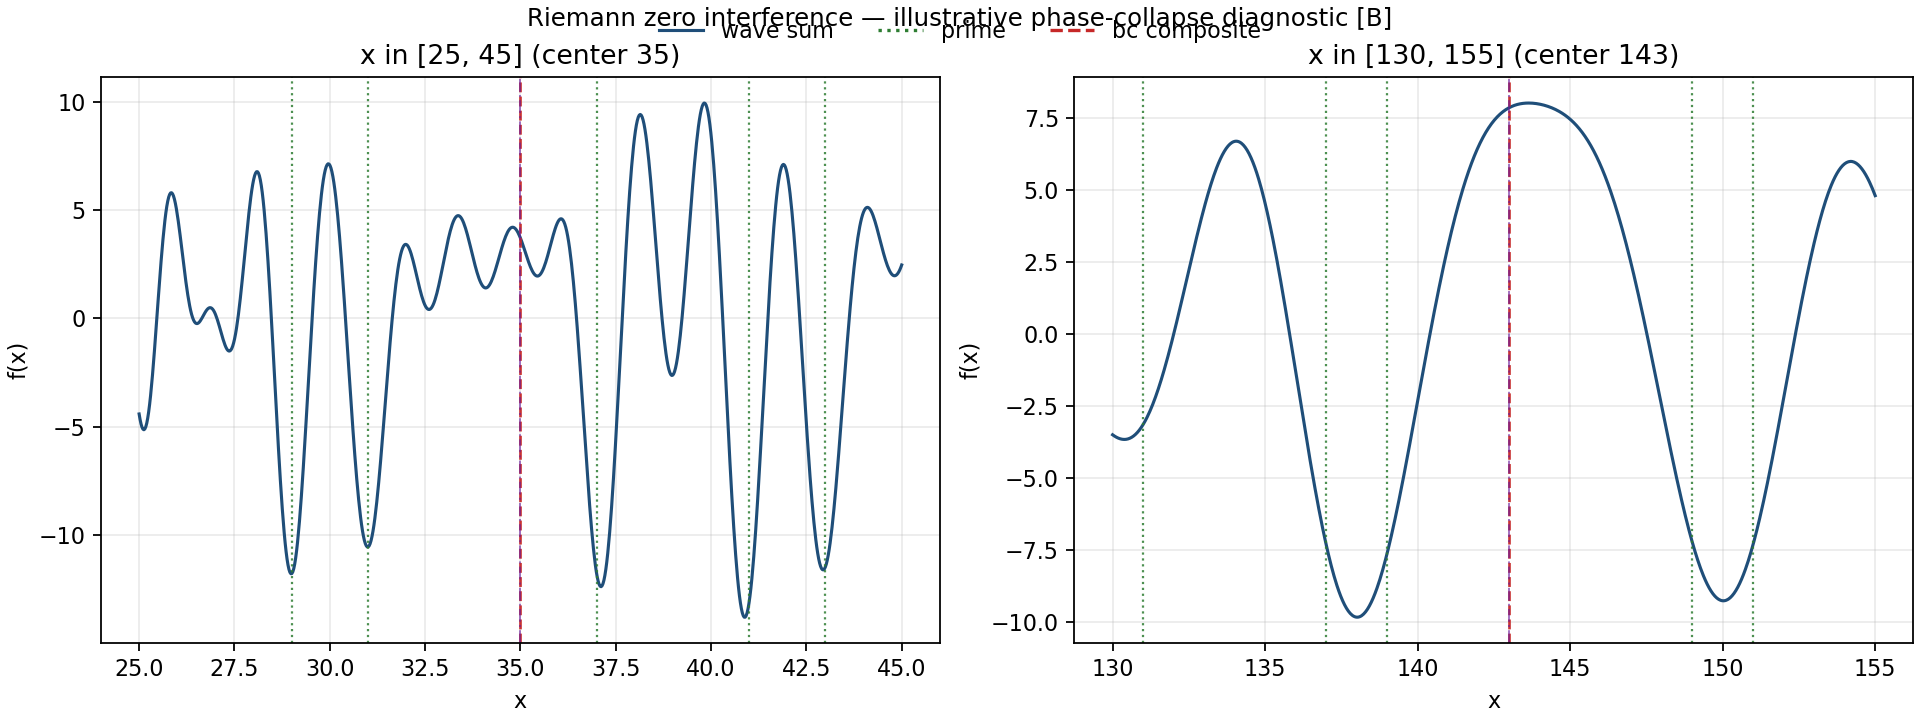
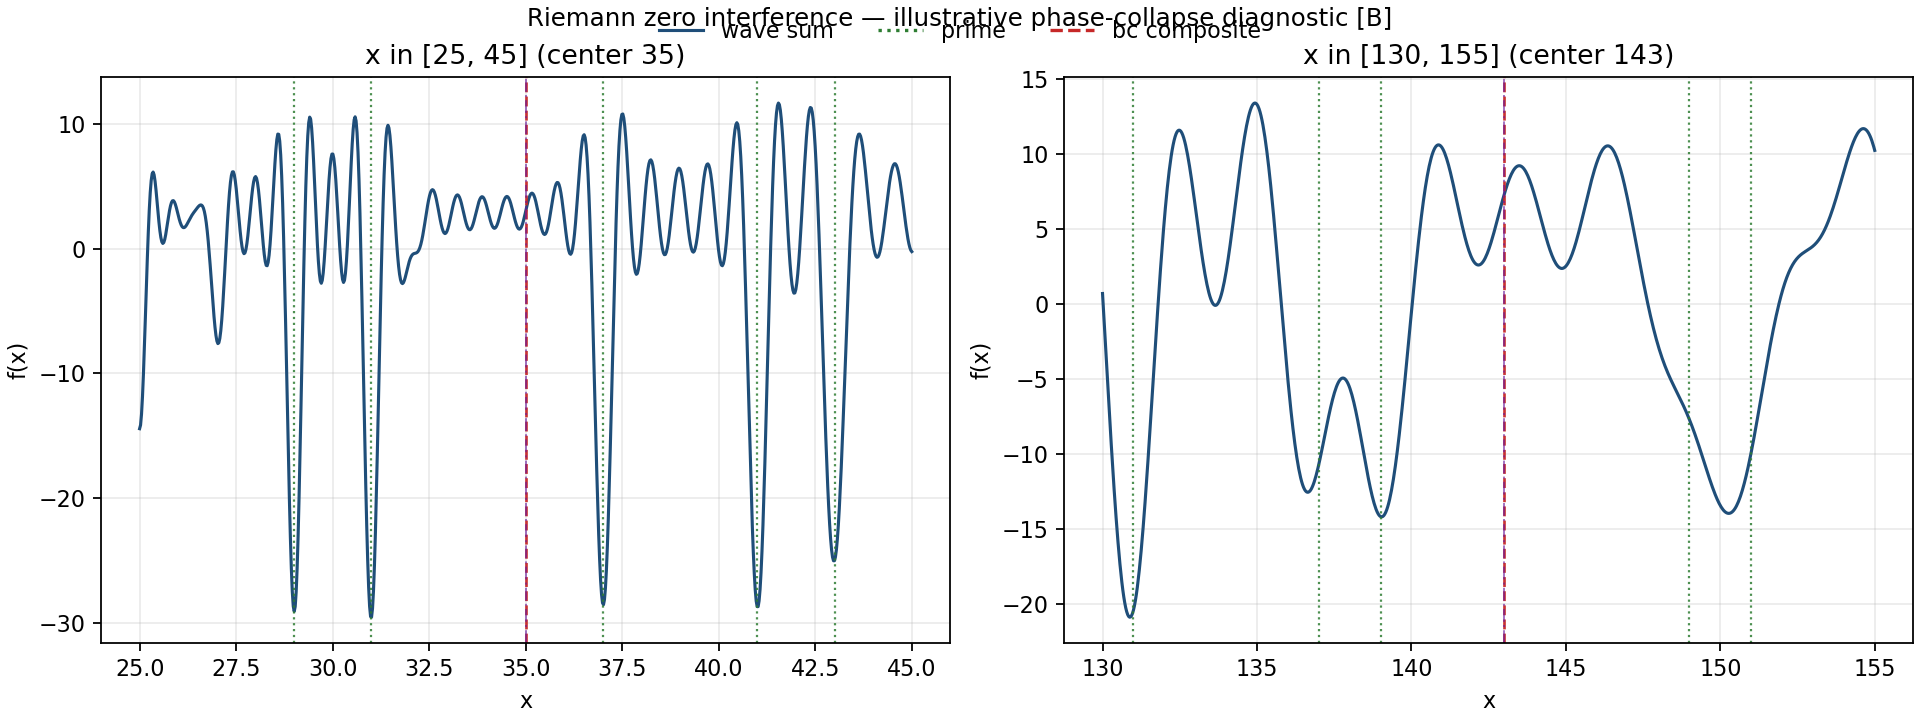
Document Riemann zero interference analogy and [B] diagnostic
- record constructive/destructive interference hypothesis at bc-axis nodes
- add Python interference signal diagnostic over zeta zero spectrum
- governance [C]: analogy only, not EABC proof or physics identity
- link to energiedoku symmetry-breaking and residual multiscale program

diff --git a/docs/open_research_questions.md b/docs/open_research_questions.md
@@ -41,6 +41,83 @@ Es enthält bewusst keine Behauptungen über bereits gesicherte Resultate.
 - Lässt sich ein Bell-typisches Testfunktional als diskrete Operatorform definieren?
 - Welche Transfer-/Labelkanaele bewahren rekonstruktive Information?
 
+## Projekt „Atome“ (E-092 / ORQ-092)
+
+- Korrelieren EABC-Invarianten \(I_{\mathrm{EABC}}(A,Z)\) mit Kernbindungs-Residuen \(R(A,Z)=B_{\mathrm{exp}}-B_{\mathrm{smooth}}\) über Nullmodelle hinaus?
+- Liefert die Residualschicht (nicht \(B_{\mathrm{exp}}\)) belastbare Mehrskalen-Signatur (PCA, Fourier/Wavelet entlang \(\log A\))?
+- Welche präregistrierte Weizsäcker-Parameterwahl und AME-Schnittmenge sind für einen `[B]`-Upgrade reproduzierbar?
+
+**Prüfmodus:**
+
+```bash
+PYTHONPATH=src python examples/run_atome_residual_export.py
+pytest tests/test_nuclear_binding_residual.py -q
+```
+
+**Dossier:** [`atome_hypothese.md`](atome_hypothese.md) · Vollprotokoll [`theory/nuclear_binding_multiscale_analogy.md`](theory/nuclear_binding_multiscale_analogy.md) §5
+
+## Projekt „Black Hole“ (E-093 / ORQ-093)
+
+- Korrelieren Legendre-verbotene Massenschalen (bei präregistriertem \(\kappa\)) mit \(\chi_p\)-Stratifizierung (1G vs. 2G) über Fisher-Test und Permutations-Nullmodelle hinaus?
+- Liefert der \(\kappa\)-Sweep ein resonantes Minimum **nur** auf echtem GWTC-5-Katalog — nicht auf Mock-Daten?
+- Welche Toleranz \(\tau\) und Primnorm-Obergrenze sind für ORQ-093 präregistriert?
+
+**Prüfmodus:**
+
+```bash
+PYTHONPATH=src python examples/run_black_hole_gwtc_export.py
+pytest tests/test_black_hole_legendre_gwtc.py tests/test_black_hole_governance_docs.py -q
+```
+
+**Dossier:** [`black_hole_hypothese.md`](black_hole_hypothese.md) · Vollprotokoll [`theory/black_hole_legendre_gwtc_bridge.md`](theory/black_hole_legendre_gwtc_bridge.md) · Claim-Register [`black_hole/claim_register.md`](black_hole/claim_register.md)
+
+## Projekt „Phaseninvarianz“ (E-094 / ORQ-094)
+
+- Bleibt \(E_a = a_x^2 + a_y^2\) unter Pauli Z (\(a_x \to -a_x\)) und X (\(a_x \leftrightarrow a_y\)) algebraisch exakt invariant?
+- Restrukturieren partielle Tensor-X-Fehler (\(b_x \leftrightarrow c_x\)) die quartischen \(E_{bc}\)-Kreuzterme signifikant über symmetrische Spezialfälle hinaus?
+- Lässt sich die QEC-Schutz-Lesesprache für die 6k+1-Primachse \(a\) über Fehler-Injektions-Nullmodelle empirisch trennen?
+
+**Prüfmodus:**
+
+```bash
+PYTHONPATH=src python examples/run_phaseninvarianz_export.py
+pytest tests/test_phaseninvarianz_pauli_energy.py tests/test_phaseninvarianz_governance_docs.py -q
+```
+
+**Dossier:** [`phaseninvarianz_hypothese.md`](phaseninvarianz_hypothese.md) · Vollprotokoll [`theory/phaseninvarianz_pauli_energy_bridge.md`](theory/phaseninvarianz_pauli_energy_bridge.md) · Claim-Register [`phaseninvarianz/claim_register.md`](phaseninvarianz/claim_register.md)
+
+### ORQ-094: Pauli Phase Invariance on EABC Energy
+
+- **Kontext:** Energetische Quadratsummen-Substitution (BH-C-11) liefert \(E_a\) (quadratisch) und \(E_{bc}\) (quartisch); Pauli-Operatoren auf Amplituden testen Schutz vs. Verwundbarkeit; QEC-Grammatik aus E-044/BH-C-09 als Lesesprache.
+- **Kernfrage:** Ist die \(a\)-Achse (6k+1-Primachsen) gegen Phasen-/Bitflip-Fehler algebraisch geschützt, während der \(bc\)-Bivektor volle Fehlerkorrektur erfordert?
+- **Status:** `[C]` — `[A/B]`-Invarianzfakten reproduzierbar; `[B]`-Upgrade über präregistriertes Fehler-Injektionsprotokoll.
+- **Abhängigkeiten:** E-093 (BH-C-11 Energetik), E-044 (`qec_bridge.py`), BH-C-09 (symplektische Stabilisator-Brücke).
+- **Dossier:** [`phaseninvarianz_hypothese.md`](phaseninvarianz_hypothese.md) · [`theory/phaseninvarianz_pauli_energy_bridge.md`](theory/phaseninvarianz_pauli_energy_bridge.md)
+
+### ORQ-093: Legendre-GWTC Mass-Gap Correlation
+
+- **Kontext:** Drei-Quadrate-Obstruktion \(4^a(8b+7)\) induziert verbotene EABC-Normschalen; GWTC-Massen erfordern Quantisierung \(\kappa: M_\odot \to \mathbb{Z}\); \(\chi_p\) stratifiziert 1G/2G-Kandidaten.
+- **Kernfrage:** Meiden 1G-Systeme Legendre-Lücken signifikant häufiger als 2G-Merger-Kandidaten?
+- **Status:** `[C]` — `[B]`-Upgrade über `black_hole_legendre_gwtc.py` mit echtem GWTC, präregistriertem \(\kappa\) und Nullmodellen.
+- **Präregistrierung:** **LOCK** (07.07.2026) — [`black_hole/preregistration_gwtc5.md`](black_hole/preregistration_gwtc5.md) (BH-GOV-01): Phase 1 GWTC-3-Grid (92 Tests, Bonferroni) → \((\kappa^*, \tau^*)\); Phase 2 GWTC-4/5 blind.
+- **Abhängigkeiten:** E-076, `GodelKerr.lean`; komplementär zu E-092 (Residual-Test-Methodik).
+- **Dossier:** [`black_hole_hypothese.md`](black_hole_hypothese.md) · [`theory/black_hole_legendre_gwtc_bridge.md`](theory/black_hole_legendre_gwtc_bridge.md) · [`black_hole/preregistration_gwtc5.md`](black_hole/preregistration_gwtc5.md)
+
+### ORQ-095: Riemann Zero Interference at bc-Axis Nodes
+
+- **Kontext:** Explizite-Formel-Oszillationen \(\cos(\gamma\ln x)\); EABC bc-Achse (mod 6); Geschwister zu E-092 (Residual-Oszillation), E-094 (Cross-Talk \(\Delta E\)), E-034/E-035 (mean-cos-Abgrenzung).
+- **Kernfrage:** Zeigt \(S(x;\Gamma)=\sum_{\gamma\in\Gamma}\cos(\gamma\ln x)\) an präregistrierten Knoten signifikante Prim/Komposit-Trennung (insb. bc-Stratifizierung) über Zufalls-\(\Gamma\) hinaus?
+- **Status:** `[C]` — `[B]`-Diagnostik-Stub; Nullmodell-Pflicht vor Discovery-Claim.
+- **Abhängigkeiten:** E-034, E-035, E-092, E-094 (PI-C-03).
+- **Dossier:** [`theory/riemann_zero_interference_analogy.md`](theory/riemann_zero_interference_analogy.md)
+
+**Prüfmodus:**
+
+```bash
+PYTHONPATH=src python examples/run_riemann_interference_export.py
+pytest tests/test_riemann_interference_diagnostics.py -q
+```
+
 ## Projekt „Die drei Musketiere“ (E-026)
 
 - Existiert in jedem Bremensaal ein Nachbar-Dreier der drei uebrigen EABC-Familien?
@@ -61,9 +138,9 @@ Es enthält bewusst keine Behauptungen über bereits gesicherte Resultate.
 
 - **Kontext:** Kernbindungs-Residuen \(R(A,Z)=B_{\mathrm{exp}}-B_{\mathrm{smooth}}\) (Weizsäcker-Hülle) tragen Schalen-, Paarungs- und Kollektivstruktur; EABC-Invarianten \(I_{\mathrm{EABC}}\) sind arithmetisch definiert — methodische Parallele zu glatt-plus-Fehler-Zerlegungen (\(\pi(x)=\mathrm{Li}(x)+E(x)\)).
 - **Kernfrage:** Erklärt \(I_{\mathrm{EABC}}\) einen Teil von \(R(A,Z)\) über Permutations-/Shuffle-Nullmodelle hinaus — nicht die volle Bindungskurve?
-- **Status:** `[C]` — `[B]`-Upgrade über präregistriertes Protokoll (Pearson, Spearman, MI, PCA, Fourier/Wavelet; Nullmodelle Pflicht).
+- **Status:** `[C]` — `[B]`-Upgrade über `nuclear_binding_residual.py` und präregistriertes Protokoll (Pearson, Spearman, MI, PCA, Fourier/Wavelet; Nullmodelle Pflicht).
 - **Abhängigkeiten:** E-076 (Bulk/Shell-Lesesprache), E-092; komplementär zu Weierstrass-Multiscale-Export.
-- **Dossier:** [`theory/nuclear_binding_multiscale_analogy.md`](theory/nuclear_binding_multiscale_analogy.md) §5
+- **Dossier:** [`atome_hypothese.md`](atome_hypothese.md) · [`theory/nuclear_binding_multiscale_analogy.md`](theory/nuclear_binding_multiscale_analogy.md) §5
 
 ### ORQ-089: Onsager Quantization Bridge
 
@@ -103,6 +180,9 @@ Vollstaendige Statements, Governance-Tabelle und Durchbruchspfad: [`open_mathema
 | 10 | ORQ-087 | Weyl-Commutator $\Delta_{\mathrm{LR}}$ | — | `[C]` → `[B]`-Ziel |
 | 11 | ORQ-089 | Onsager Quantization Bridge | E-089 | `[C]` |
 | 12 | ORQ-092 | Nuclear residual \(I_{\mathrm{EABC}}\) vs. \(R(A,Z)\) | E-092 | `[C]` → `[B]`-Ziel |
+| 13 | ORQ-093 | Legendre-GWTC mass-gap vs. \(\chi_p\) | E-093 | `[C]` → `[B]`-Ziel |
+| 14 | ORQ-094 | Pauli phase invariance on EABC energy | E-094 | `[C]` → `[B]`-Ziel |
+| 15 | ORQ-095 | Riemann zero interference at bc-axis nodes | E-095 | `[C]` → `[B]`-Ziel |
 
 **Shell-Separationsdiagnostik (E-077–E-079):** Mess-Schicht `[C]` — [`reports/shell_separation_diagnostics_protocol.md`](reports/shell_separation_diagnostics_protocol.md) · CSV via `scripts/shell_separation_diagnostics.py`
 

diff --git a/EABC_MASTER_INDEX.md b/EABC_MASTER_INDEX.md
@@ -75,3 +75,30 @@
   - **Stub `[B]`:** `src/kepler_hurwitz/onsager_vortex_diagnostics.py` (Gap-Rotor-Zirkulation, Holonomie, Defektkern)
   - **Claim-Grenze:** Ergänzt E-076 — keine physikalische Identifikation, keine Deduktion aus Dumas-Empirie
   - **Register:** E-089 (ORQ-089)
+
+- **Projekt „Black Hole“** — Legendre-GWTC-Massenlücken **[C/B]**
+  - **[A/B] Algebra:** `scripts/black_hole/legendre_mass_gaps.sage`, `black_hole_legendre_gwtc.py`
+  - **[C] Brücke:** \(\kappa: M_\odot \to \mathbb{Z}\), \(\chi_p\)-Stratifizierung 1G/2G, `eabc_merger.sage`, `five_qubit_bridge.sage`, `monopole_gap_test.sage`
+  - **[C] Riemann-Achsen-Monopol:** \(\delta=\psi_a-\psi_{bc}\) an \(\gamma_n\); `eabc_monopole_axis_resonance.py`, `eabc_six_state_prime_axes.py` · Dossier `docs/theory/eabc_riemann_axis_monopole.md` (BH-C-08)
+  - **[C] L-Gap-Symplektik-Brücke:** \(\Delta\gamma\) → 15 `[[5,1,3]]`-Stabilisatoren GF\((2)^4\setminus\{0\}\); `eabc_symplectic_stabilizer_bridge.py` · Dossier `docs/theory/eabc_symplectic_l_gap_bridge.md` (BH-C-09)
+  - **[C] Energetische Quadratsumme:** \(a = a_x^2 + a_y^2\) als Energiedichte-Metrik; `eabc_energy_square_sum.py` · Dossier `docs/theory/eabc_energy_square_sum_substitution.md` (BH-C-11)
+  - **[B] Stub:** Fisher-Test + Mock-GWTC-Export — `examples/run_black_hole_gwtc_export.py`
+  - **Dossier:** `docs/black_hole_hypothese.md`, `docs/theory/black_hole_legendre_gwtc_bridge.md`, `docs/black_hole/claim_register.md`
+  - **Lean `[C]`:** `KeplerHurwitz/BlackHoleInterface.lean`
+  - **Register:** E-093 (ORQ-093)
+  - **Geschwister `[C]`:** mod-6-Sechs-Zustands-Primachsen — `docs/theory/eabc_six_state_prime_axes.md`, `eabc_six_state_prime_axes.py`, `eabc_prime_six_state.sage` (kein neues E-ID; BH-C-07)
+
+- **Projekt „Phaseninvarianz“** — Pauli-Energie-Schutz/Verwundbarkeit **[C/B]**
+  - **[A/B] Algebra:** \(E_a\) invariant unter Pauli Z/X; \(E_{bc}\) verwundbar unter Tensor-X — `phaseninvarianz_pauli_energy.py`, `pauli_energy_invariance.sage`
+  - **[C] Brücke:** 6k+1-Primachse \(a\) QEC-geschützt; \(bc\)-Bivektor benötigt volle `[[5,1,3]]`-Grammatik (E-044, BH-C-09)
+  - **[B] Stub:** `pauli_invariance_report` + Export — `examples/run_phaseninvarianz_export.py`
+  - **Dossier:** `docs/phaseninvarianz_hypothese.md`, `docs/theory/phaseninvarianz_pauli_energy_bridge.md`, `docs/phaseninvarianz/claim_register.md`
+  - **Lean `[C]`:** `KeplerHurwitz/PhaseninvarianzInterface.lean`
+  - **Register:** E-094 (ORQ-094)
+
+- **Projekt „Riemann-Interferenz“** — ln(x)-Knoten-Interferenz **[C/B]**
+  - **[B] Stub:** \(S(x;\Gamma)=\sum\cos(\gamma\ln x)\) über erste 50 \(\gamma_n\) — `riemann_interference_diagnostics.py`
+  - **[C] Brücke:** konstruktiv/destruktiv an Prim/Komposit bc-Knoten; Cross-Talk \(\Delta E\) (PI-C-03); Residual-Oszillation (E-092)
+  - **Dossier:** `docs/theory/riemann_zero_interference_analogy.md`
+  - **Register:** E-095 (ORQ-095)
+  - **Abgrenzung:** E-034 (refuted mean \(\Delta M\)), E-035 (open mean \(x_0\)) — andere Normalisierung

diff --git a/EVIDENCE_REGISTER.md b/EVIDENCE_REGISTER.md
@@ -110,7 +110,7 @@ Es dient als Referenzschicht fuer Doku, Reviews und spaetere Publikationen.
 | `E-092` | Kernbindung Mehrskalen-Analogie (Weizsäcker-Hülle + Residual \(R(A,Z)\); \(I_{\mathrm{EABC}}\)-Testprotokoll) | `[C]` | `-` | `docs/theory/nuclear_binding_multiscale_analogy.md`, `src/kepler_hurwitz/nuclear_binding_residual.py`, `docs/atome_hypothese.md` | `E-076` | ORQ-092 | Formal \(R(A,Z)=B_{\mathrm{exp}}-B_{\mathrm{smooth}}\); 95–99 % vs. 1 % Informations-Split; \(\pi(x)=\mathrm{Li}(x)+E(x)\)-Analogie; EABC über Residuen mit Nullmodell-Pflicht | `[B]`-Diagnostik-Stub; empirische Verifikation offen | dokumentiert | `experimental` | `2026-07-06` |
 | `E-093` | Black Hole Legendre-GWTC-Brücke (\(\kappa\)-Quantisierung, \(\chi_p\)-Stratifizierung, Fisher-Test) | `[C]` | `-` | `docs/theory/black_hole_legendre_gwtc_bridge.md`, `docs/black_hole_hypothese.md`, `docs/black_hole/claim_register.md`, `src/kepler_hurwitz/black_hole_legendre_gwtc.py`, `KeplerHurwitz/BlackHoleInterface.lean`, `scripts/black_hole/*.sage`, `docs/theory/riemann_zero_interference_analogy.md`, `src/kepler_hurwitz/riemann_interference_diagnostics.py`, `docs/exports/riemann_interference_phase_collapse.png` | `E-076`, `GodelKerr` | ORQ-093 | Legendre-Lücken `[A/B]`; \(\kappa: M_\odot\to\mathbb{Z}\) und 1G/2G über \(\chi_p\) `[C]`; Fisher-Test auf Mock-GWTC; Riemann-Interferenz-Plot \(f(x)=\sum\cos(\gamma_n\ln x)\) um 35/143 `[B]` illustrativ | `[B]`-Stub; echtes GWTC + Präregistrierung für Upgrade; Interferenz-Plot kein Symmetriebruch-Beweis | dokumentiert | `experimental` | `2026-07-07` |
 | `E-094` | Phaseninvarianz Pauli-Energie-Brücke (Z/X-Invarianz auf \(E_a\), Tensor-X-Verwundbarkeit auf \(E_{bc}\)) | `[C]` | `-` | `docs/theory/phaseninvarianz_pauli_energy_bridge.md`, `docs/phaseninvarianz_hypothese.md`, `docs/phaseninvarianz/claim_register.md`, `src/kepler_hurwitz/phaseninvarianz_pauli_energy.py`, `KeplerHurwitz/PhaseninvarianzInterface.lean`, `scripts/phaseninvarianz/*.sage` | `E-093`, `E-044` | ORQ-094 | \(E_a\) Pauli-invariant `[A/B]`; \(E_{bc}\) tensor-verwundbar `[A/B]`; QEC-Schutz-Lesesprache `[C]` | `[B]`-Upgrade über Fehler-Injektionsprotokoll | dokumentiert | `experimental` | `2026-07-07` |
-| `E-095` | Riemann-Nullstellen-Interferenz an ln(x)-Knoten (\(S(x;\Gamma)=\sum\cos(\gamma\ln x)\); Prim vs. Komposit bc-Achse) | `[C]` | `-` | `docs/theory/riemann_zero_interference_analogy.md`, `src/kepler_hurwitz/riemann_interference_diagnostics.py`, `docs/exports/riemann_zero_interference.json` | `E-034`, `E-035`, `E-092`, `E-094` | ORQ-095 | \(S(x;\Gamma)\) wohldefiniert für \(x>1\) `[B]`; konstruktiv/destruktiv-Lesesprache `[C]`; Cross-Talk-\(\Delta E\)-Brücke PI-C-03 | `[B]`-Stub; Nullmodell über \(\Gamma\)-Permutation offen | dokumentiert | `experimental` | `2026-07-07` |
+| `E-095` | Riemann-Nullstellen-Interferenz an ln(x)-Knoten (\(S(x;\Gamma)=\sum\cos(\gamma\ln x)\); Prim vs. Komposit bc-Achse) | `[C]` | `-` | `docs/theory/riemann_zero_interference_analogy.md`, `src/kepler_hurwitz/riemann_interference_diagnostics.py`, `docs/exports/riemann_interference_phase_collapse.summary.json` | `E-034`, `E-035`, `E-092`, `E-094` | ORQ-095 | \(S(x;\Gamma)\) wohldefiniert für \(x>1\) `[B]`; konstruktiv/destruktiv-Lesesprache `[C]`; Cross-Talk-\(\Delta E\)-Brücke PI-C-03 | `[B]`-Stub; Nullmodell über \(\Gamma\)-Permutation offen | dokumentiert | `experimental` | `2026-07-07` |
 
 **ID-Hinweis DH-QPID:** Die frueheren Lean-Ideal-Eintraege **E-064/E-065/E-066** wurden zu **E-067/E-068/E-069** renummeriert. **E-064** ist jetzt die didaktische DH-QPID-Modellbruecke (`docs/theory/ideal_dedekind_hasse_intro_abitur.md`).
 